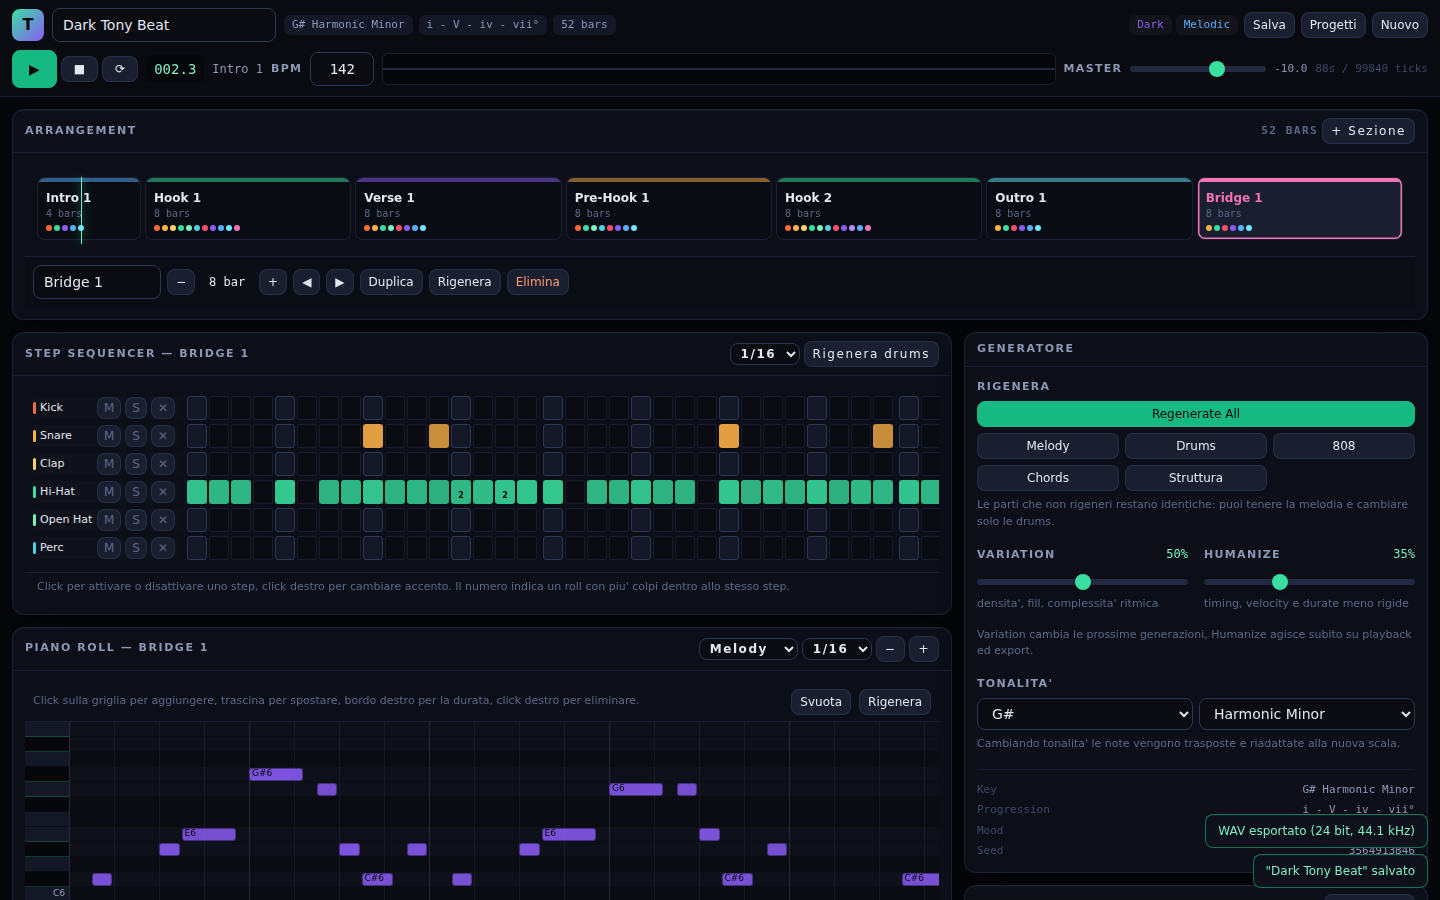
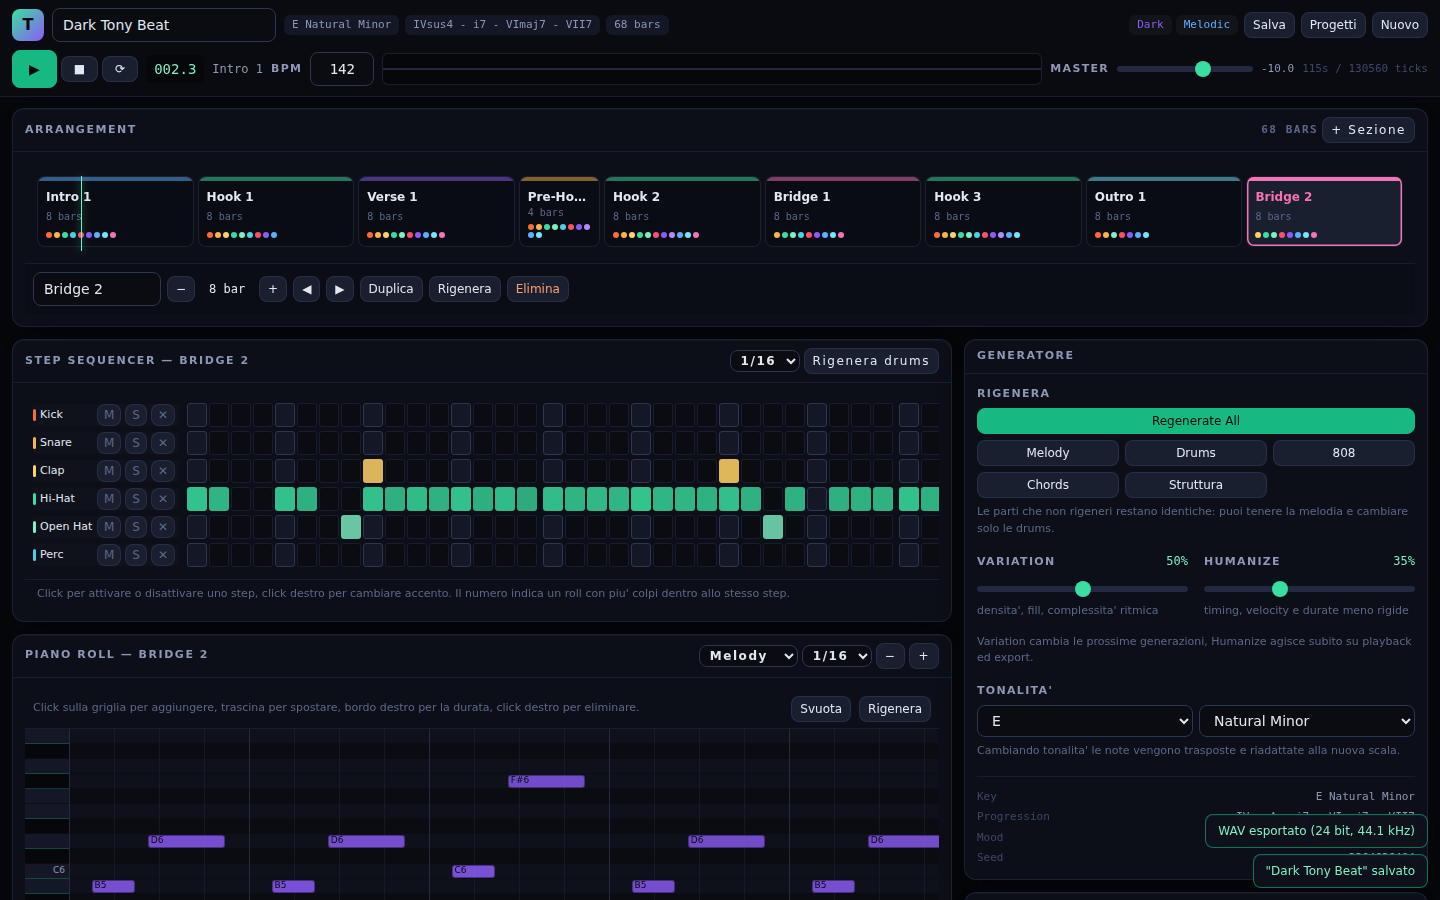
Aggiunge i MIDI per singolo strumento e la scheda struttura da copiare
Pensato per chi importa in FL Studio e poi lavora sui canali:
- un file MIDI per strumento (01_kick.mid, 02_snare.mid, 07_808.mid, ...) da
  trascinare sul singolo canale del Channel Rack, oltre ai file per gruppo
- pulsante "Copia struttura" che mette negli appunti scaletta, accordi battuta
  per battuta, griglia ASCII delle drum e note di 808 e melodia della sezione
  selezionata, piu' lo stesso testo come struttura.txt dentro allo ZIP
- FL Studio non accetta testo incollato nel piano roll: la scheda serve come
  riferimento, l'import vero resta drag and drop dei MIDI o apertura del .flp

Claude-Session: https://claude.ai/code/session_0191wMxAC34X9nVwReqrWYzU

diff --git a/trap-beat-generator/src/export/summary.ts b/trap-beat-generator/src/export/summary.ts
@@ -1,0 +1,122 @@
+import { DRUM_TRACKS, TICKS_PER_BAR, TRACKS, TRACK_MAP } from '../types';
+import type { Beat, NoteEvent, Section, TrackId } from '../types';
+import { MOODS } from '../music/moods';
+import { chordAtBar, progressionLabel } from '../music/progressions';
+import { chordLabel, keyLabel, noteName } from '../music/theory';
+
+const STEP = TICKS_PER_BAR / 16;
+const MAX_MELODY_LINES = 48;
+
+/** Griglia ASCII di una traccia di batteria, 16 step per battuta. */
+function drumGrid(notes: NoteEvent[], bars: number): string {
+  const cells: string[] = [];
+  for (let bar = 0; bar < bars; bar++) {
+    let row = '';
+    for (let step = 0; step < 16; step++) {
+      const from = bar * TICKS_PER_BAR + step * STEP;
+      const hits = notes.filter((n) => n.t >= from && n.t < from + STEP);
+      if (!hits.length) row += '.';
+      else if (hits.length > 1) row += String(Math.min(9, hits.length));
+      else row += hits[0].v >= 100 ? 'X' : 'x';
+    }
+    cells.push(row);
+  }
+  return cells.join('|');
+}
+
+/** Posizione leggibile: battuta.movimento.sedicesimo, tutto 1-based. */
+function positionLabel(tick: number): string {
+  const bar = Math.floor(tick / TICKS_PER_BAR) + 1;
+  const inBar = tick % TICKS_PER_BAR;
+  const beat = Math.floor(inBar / (TICKS_PER_BAR / 4)) + 1;
+  const step = Math.floor((inBar % (TICKS_PER_BAR / 4)) / STEP) + 1;
+  return `${String(bar).padStart(2)}.${beat}.${step}`;
+}
+
+function durationLabel(ticks: number): string {
+  const sixteenths = ticks / STEP;
+  if (sixteenths >= 16) return `${(sixteenths / 16).toFixed(1)} bar`;
+  if (sixteenths >= 1) return `${Math.round(sixteenths)}/16`;
+  return '1/32';
+}
+
+/**
+ * Scheda testuale del beat da tenere accanto a FL Studio mentre si ricostruisce
+ * o si controlla quello che si e' importato.
+ */
+export function buildStructureText(beat: Beat, sectionId?: string): string {
+  const { meta } = beat;
+  const section: Section =
+    beat.sections.find((s) => s.id === sectionId) ??
+    beat.sections.find((s) => s.kind === 'HOOK') ??
+    beat.sections[0];
+
+  const totalBars = beat.sections.reduce((sum, s) => sum + s.bars, 0);
+  const lines: string[] = [];
+
+  lines.push(`TRAP BEAT - ${beat.name}`);
+  lines.push(
+    `${keyLabel(meta.rootPc, meta.scaleId)} | ${meta.bpm} BPM | ${meta.moods
+      .map((m) => MOODS[m]?.label ?? m)
+      .join(' + ')} | ${totalBars} battute`,
+  );
+  lines.push(
+    `Progressione: ${progressionLabel(meta.progression)}  ->  ${meta.progression
+      .map((c) => chordLabel(meta.rootPc, meta.scaleId, c))
+      .join(' - ')}`,
+  );
+  lines.push('');
+
+  lines.push('STRUTTURA');
+  let startBar = 0;
+  beat.sections.forEach((s, i) => {
+    const active = TRACKS.filter((t) => (s.clips[t.id]?.length ?? 0) > 0).map((t) => t.label);
+    lines.push(
+      `${String(i + 1).padStart(2, '0')}. ${s.name.padEnd(12)} ${String(s.bars).padStart(2)} bar  ` +
+        `(bar ${startBar + 1}-${startBar + s.bars})  ${active.join(', ')}`,
+    );
+    startBar += s.bars;
+  });
+  lines.push('');
+
+  // Accordi battuta per battuta, sul ciclo della progressione.
+  const cycle = meta.progression.reduce((sum, c) => sum + c.bars, 0) || 1;
+  const chordRow: string[] = [];
+  for (let bar = 0; bar < cycle; bar++) {
+    chordRow.push(`bar ${bar + 1}: ${chordLabel(meta.rootPc, meta.scaleId, chordAtBar(meta.progression, bar))}`);
+  }
+  lines.push(`ACCORDI (ciclo di ${cycle} battute, si ripete)`);
+  lines.push(chordRow.join('  |  '));
+  lines.push('');
+
+  lines.push(`DRUM PATTERN - ${section.name} (1/16, X = accento, numero = roll)`);
+  for (const trackId of DRUM_TRACKS as TrackId[]) {
+    const notes = section.clips[trackId] ?? [];
+    if (!notes.length) continue;
+    lines.push(`${TRACK_MAP[trackId].label.padEnd(9)} ${drumGrid(notes, Math.min(section.bars, 4))}`);
+  }
+  lines.push('');
+
+  for (const trackId of ['808', 'melody', 'chords'] as TrackId[]) {
+    const notes = section.clips[trackId] ?? [];
+    if (!notes.length) continue;
+    lines.push(`${TRACK_MAP[trackId].label.toUpperCase()} - ${section.name} (bar.movimento.step)`);
+    const shown = notes.slice(0, MAX_MELODY_LINES);
+    for (const note of shown) {
+      lines.push(
+        `  ${positionLabel(note.t)}  ${noteName(note.p).padEnd(4)} ${durationLabel(note.d).padEnd(7)} vel ${note.v}` +
+          (note.slide ? '  slide' : ''),
+      );
+    }
+    if (notes.length > shown.length) lines.push(`  ... e altre ${notes.length - shown.length} note`);
+    lines.push('');
+  }
+
+  lines.push('COME PORTARLO IN FL STUDIO');
+  lines.push('- Il modo rapido: trascina full_beat.mid nella playlist e scegli "Import to new channels".');
+  lines.push('- Uno strumento alla volta: i file in /midi/strumenti si trascinano sul singolo canale.');
+  lines.push(`- Imposta il tempo del progetto a ${meta.bpm} BPM.`);
+  lines.push('- Questa scheda serve come riferimento: FL non accetta testo incollato nel piano roll.');
+
+  return lines.join('\n');
+}

diff --git a/trap-beat-generator/src/components/ExportPanel.tsx b/trap-beat-generator/src/components/ExportPanel.tsx
@@ -1,11 +1,13 @@
 import { useState } from 'react';
 import { useBeatStore, sectionOffsets } from '../store/useBeatStore';
-import { buildMidiFiles } from '../midi/export';
+import { buildMidiFiles, buildPerTrackMidiFiles } from '../midi/export';
 import { buildFlp } from '../flp/export';
 import { beatFileBase, buildInfoText } from '../export/info';
 import { buildZip } from '../export/bundle';
 import { renderWav, beatDurationSeconds } from '../audio/wav';
+import { buildStructureText } from '../export/summary';
 import { downloadBlob } from '../utils/download';
+import { copyToClipboard } from '../utils/clipboard';
 import { Panel } from './ui/Panel';
 
 export function ExportPanel() {
@@ -20,6 +22,7 @@ export function ExportPanel() {
   const selectedSection = beat.sections.find((s) => s.id === selectedSectionId) ?? null;
   const base = beatFileBase(beat);
   const files = buildMidiFiles(beat);
+  const trackFiles = buildPerTrackMidiFiles(beat);
 
   const exportZip = () => {
     try {
@@ -76,6 +79,60 @@ export function ExportPanel() {
               </button>
             ))}
           </div>
+        </div>
+
+        <div>
+          <p className="label mb-1.5">Un MIDI per strumento</p>
+          <div className="grid grid-cols-2 gap-1.5">
+            {trackFiles.map((file) => (
+              <button
+                key={file.name}
+                className="btn btn-xs justify-between font-mono"
+                onClick={() => {
+                  downloadBlob(file.data, `${base}_${file.name}`, 'audio/midi');
+                  notify(`${file.name} scaricato`, 'success');
+                }}
+              >
+                <span className="truncate">{file.name.replace(/^\d+_/, '')}</span>
+                <span className="text-[10px] text-ink-400">{(file.data.length / 1024).toFixed(1)}k</span>
+              </button>
+            ))}
+          </div>
+          <p className="mt-1.5 text-[11px] leading-snug text-ink-400">
+            Trascina un file su un singolo canale del Channel Rack per lavorare uno strumento alla volta.
+          </p>
+        </div>
+
+        <div>
+          <p className="label mb-1.5">Struttura da consultare</p>
+          <div className="grid grid-cols-2 gap-1.5">
+            <button
+              className="btn btn-xs"
+              onClick={() => {
+                void copyToClipboard(buildStructureText(beat, selectedSectionId ?? undefined)).then((ok) =>
+                  notify(ok ? 'Struttura copiata negli appunti' : 'Copia non riuscita', ok ? 'success' : 'error'),
+                );
+              }}
+            >
+              Copia struttura
+            </button>
+            <button
+              className="btn btn-xs"
+              onClick={() => {
+                downloadBlob(
+                  buildStructureText(beat, selectedSectionId ?? undefined),
+                  `${base}_struttura.txt`,
+                  'text/plain',
+                );
+              }}
+            >
+              Scarica .txt
+            </button>
+          </div>
+          <p className="mt-1.5 text-[11px] leading-snug text-ink-400">
+            Scaletta, accordi battuta per battuta, griglia delle drum e note di 808 e melodia della sezione
+            selezionata. FL non accetta testo incollato nel piano roll: serve come riferimento mentre lavori.
+          </p>
         </div>
 
         <div>

diff --git a/trap-beat-generator/tests/midi.ts b/trap-beat-generator/tests/midi.ts
@@ -1,8 +1,9 @@
 import { unzipSync } from 'fflate';
 import { generateBeat } from '../src/generator';
-import { buildMidiFiles } from '../src/midi/export';
+import { buildMidiFiles, buildPerTrackMidiFiles } from '../src/midi/export';
 import { buildZip } from '../src/export/bundle';
 import { buildInfoText, beatFileBase } from '../src/export/info';
+import { buildStructureText } from '../src/export/summary';
 import { PPQ } from '../src/types';
 
 let failures = 0;
@@ -107,12 +108,30 @@ for (const mood of ['dark', 'melodic', 'chill', 'futuristic'] as const) {
       console.log(`  ${mood}/808.mid: ${notes} note, ${bends} eventi di pitch bend`);
     }
   }
+  // Un file per strumento, ognuno con una sola traccia dentro.
+  const perTrack = buildPerTrackMidiFiles(beat);
+  check(perTrack.length >= 5, `${mood}: pochi file per strumento (${perTrack.length})`);
+  for (const file of perTrack) {
+    const parsed = parseMidi(file.data);
+    check(parsed.ntrks === 2, `${mood}/${file.name}: attese 2 tracce (tempo + strumento), trovate ${parsed.ntrks}`);
+    check(parsed.tracks.reduce((s, t) => s + t.notes, 0) > 0, `${mood}/${file.name}: nessuna nota`);
+  }
+
+  // La scheda testuale deve contenere le informazioni chiave.
+  const summary = buildStructureText(beat);
+  for (const needle of ['STRUTTURA', 'ACCORDI', 'DRUM PATTERN', `${beat.meta.bpm} BPM`]) {
+    check(summary.includes(needle), `${mood}: la struttura testuale non contiene "${needle}"`);
+  }
+  check(summary.split('\n').length > 20, `${mood}: struttura testuale troppo corta`);
+
   const zip = buildZip(beat);
   const entries = unzipSync(zip);
   const names = Object.keys(entries).sort();
   check(names.includes('text/beat-info.txt'), `${mood}: manca beat-info.txt`);
   check(names.some((n) => n.startsWith('midi/')), `${mood}: manca la cartella midi`);
   check(names.some((n) => n.startsWith('flstudio/') && n.endsWith('.flp')), `${mood}: manca il progetto .flp`);
+  check(names.some((n) => n.startsWith('midi/strumenti/')), `${mood}: mancano i MIDI per strumento`);
+  check(names.includes('text/struttura.txt'), `${mood}: manca struttura.txt`);
   const flpEntry = Object.entries(entries).find(([n]) => n.endsWith('.flp'))?.[1];
   check(
     !!flpEntry && String.fromCharCode(...flpEntry.subarray(0, 4)) === 'FLhd',

diff --git a/trap-beat-generator/src/export/bundle.ts b/trap-beat-generator/src/export/bundle.ts
@@ -1,8 +1,9 @@
 import { zipSync, strToU8 } from 'fflate';
 import type { Beat } from '../types';
-import { buildMidiFiles } from '../midi/export';
+import { buildMidiFiles, buildPerTrackMidiFiles } from '../midi/export';
 import { buildFlp } from '../flp/export';
 import { beatFileBase, buildInfoText } from './info';
+import { buildStructureText } from './summary';
 
 /**
  * Pacchetto ZIP pronto per FL Studio: i MIDI (import garantito),
@@ -12,14 +13,19 @@ export function buildZip(beat: Beat): Uint8Array {
   const midi: Record<string, Uint8Array> = {};
   for (const file of buildMidiFiles(beat)) midi[file.name] = file.data;
 
+  // Un file per strumento: si trascinano uno a uno sui canali del Channel Rack.
+  const perTrack: Record<string, Uint8Array> = {};
+  for (const file of buildPerTrackMidiFiles(beat)) perTrack[file.name] = file.data;
+
   return zipSync(
     {
-      midi,
+      midi: { ...midi, strumenti: perTrack },
       flstudio: {
         [`${beatFileBase(beat)}.flp`]: buildFlp(beat),
       },
       text: {
         'beat-info.txt': strToU8(buildInfoText(beat)),
+        'struttura.txt': strToU8(buildStructureText(beat)),
       },
     },
     { level: 6 },

diff --git a/trap-beat-generator/src/midi/export.ts b/trap-beat-generator/src/midi/export.ts
@@ -55,6 +55,28 @@ const GROUPS: { file: string; tracks: TrackId[] }[] = [
 ];
 
 /** Costruisce tutti i file MIDI del beat (per gruppo + full_beat). */
+/**
+ * Un file MIDI per ogni strumento: si trascina direttamente sul canale
+ * corrispondente del Channel Rack di FL Studio.
+ */
+export function buildPerTrackMidiFiles(beat: Beat): MidiBundleFile[] {
+  const byTrack = notesByTrack(beat);
+  const options = { bpm: beat.meta.bpm, ppq: PPQ, name: beat.name };
+  const files: MidiBundleFile[] = [];
+
+  TRACKS.forEach((track, index) => {
+    const notes = byTrack.get(track.id);
+    if (!notes?.length) return;
+    const slug = track.label.toLowerCase().replace(/[^a-z0-9]+/g, '-').replace(/^-|-$/g, '');
+    files.push({
+      name: `${String(index + 1).padStart(2, '0')}_${slug}.mid`,
+      data: writeMidiFile([trackSpec(track.id, notes)], options),
+    });
+  });
+
+  return files;
+}
+
 export function buildMidiFiles(beat: Beat): MidiBundleFile[] {
   const byTrack = notesByTrack(beat);
   const files: MidiBundleFile[] = [];

diff --git a/trap-beat-generator/src/utils/clipboard.ts b/trap-beat-generator/src/utils/clipboard.ts
@@ -1,0 +1,27 @@
+/** Copia testo negli appunti, con ripiego per i browser che bloccano l'API moderna. */
+export async function copyToClipboard(text: string): Promise<boolean> {
+  try {
+    if (navigator.clipboard?.writeText) {
+      await navigator.clipboard.writeText(text);
+      return true;
+    }
+  } catch {
+    // permesso negato o contesto non sicuro: si prova il metodo classico
+  }
+
+  try {
+    const area = document.createElement('textarea');
+    area.value = text;
+    area.setAttribute('readonly', '');
+    area.style.position = 'fixed';
+    area.style.top = '-1000px';
+    area.style.opacity = '0';
+    document.body.appendChild(area);
+    area.select();
+    const ok = document.execCommand('copy');
+    document.body.removeChild(area);
+    return ok;
+  } catch {
+    return false;
+  }
+}

diff --git a/trap-beat-generator/README.md b/trap-beat-generator/README.md
@@ -57,11 +57,28 @@ Il pulsante *Scarica ZIP completo* produce `TrapBeat_<BPM>BPM_<Key>.zip`:
   chords.mid       progressione armonica
   pad.mid          pad / atmosfera
   full_beat.mid    tutte le tracce insieme
+  /strumenti
+    01_kick.mid    un file per ogni strumento, da trascinare sul singolo canale
+    02_snare.mid
+    ...
 /flstudio
   TrapBeat_*.flp   progetto FL Studio (sperimentale)
 /text
   beat-info.txt    BPM, key, scala, mood, progressione, struttura
+  struttura.txt    scaletta, accordi per battuta, griglia drum, note di 808 e melodia
 ```
+
+### Tre modi per portarlo in FL Studio
+
+1. **Tutto in una volta**: trascina `full_beat.mid` nella playlist e scegli
+   *import to new channels*. Il Channel Rack si riempie con un canale per strumento.
+2. **Uno strumento alla volta**: i file in `/midi/strumenti` si trascinano sul singolo
+   canale, comodo per sostituire solo la batteria o solo l'808.
+3. **Progetto gia' montato**: apri il `.flp` (sperimentale) e trovi tempo, pattern e playlist.
+
+Il pulsante *Copia struttura* mette negli appunti una scheda di testo con scaletta,
+accordi battuta per battuta, griglia delle drum e note di 808 e melodia. Serve come
+riferimento mentre lavori: FL Studio non accetta testo incollato nel piano roll.
 
 ### Progetto .flp (sperimentale)
 
